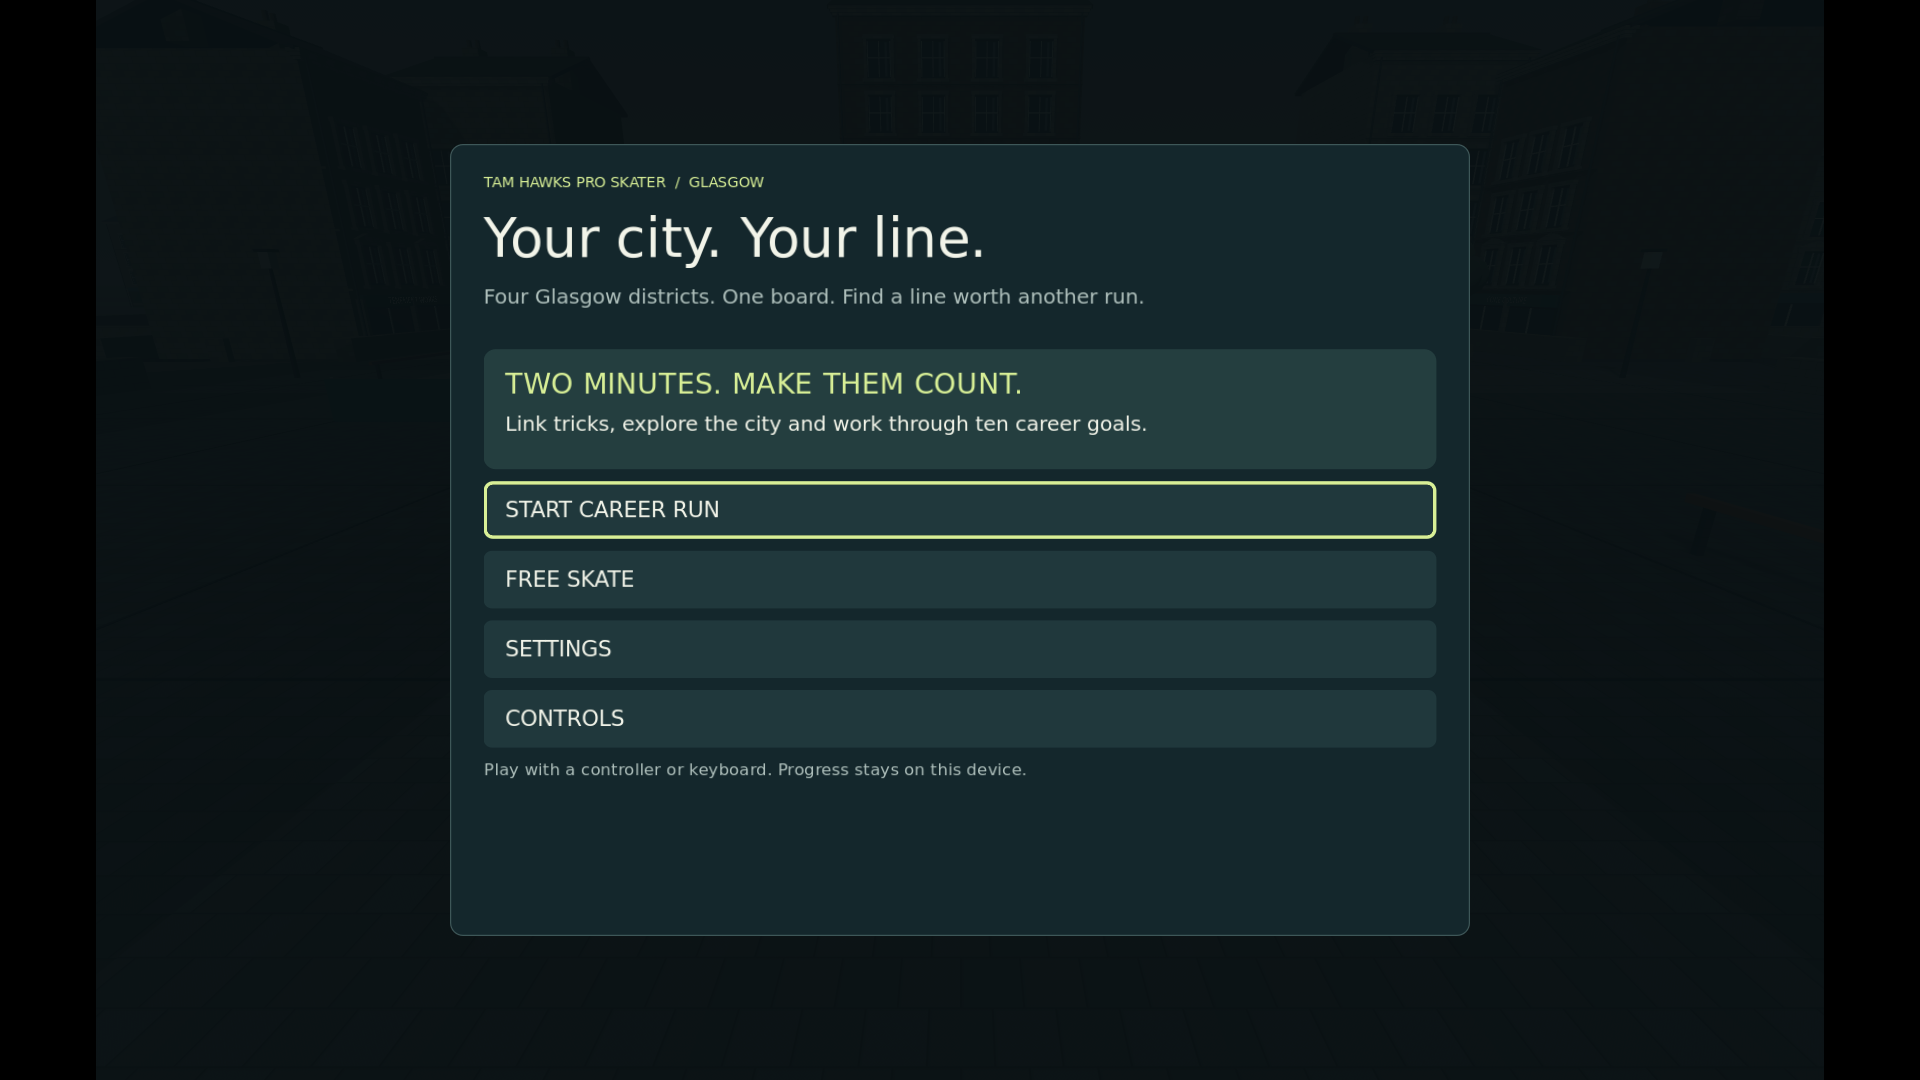
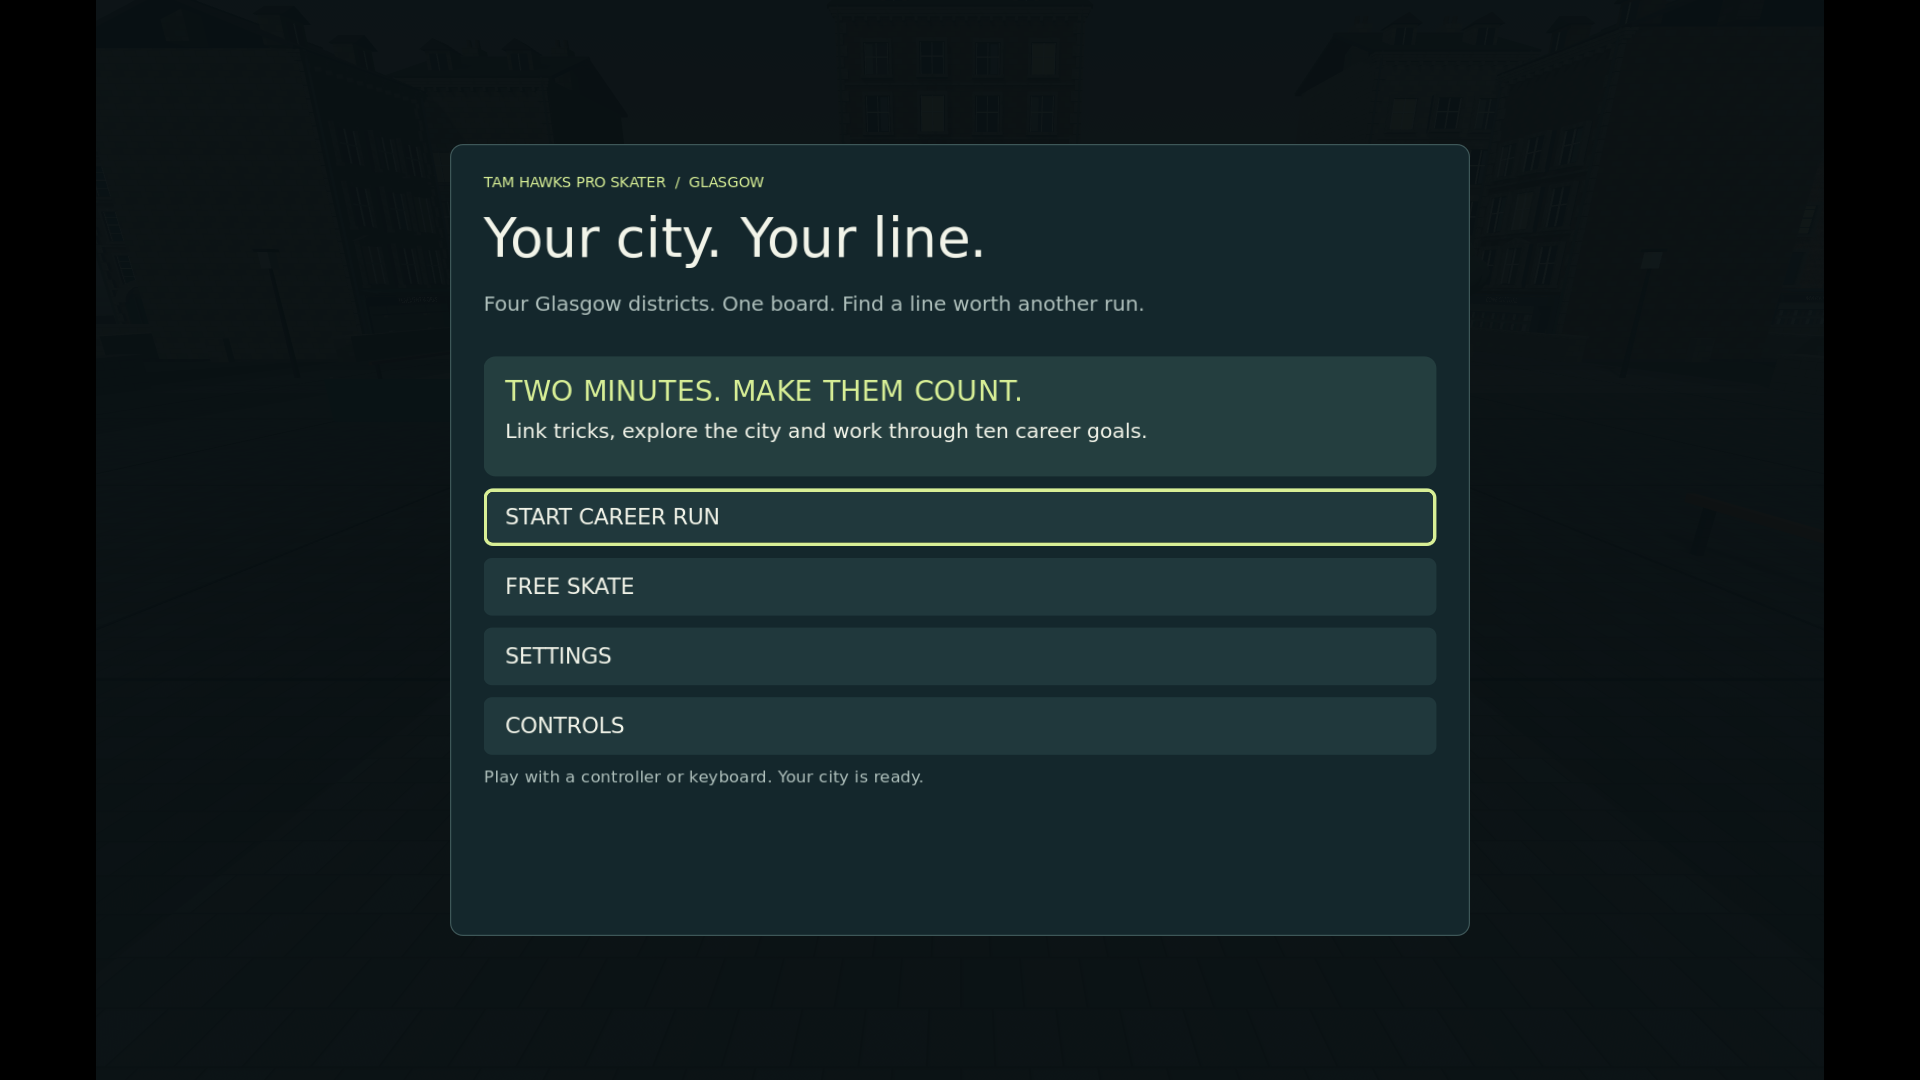
Record cleanup packages, launch checks and resumable handoff

diff --git a/docs/testing/EXPORT.md b/docs/testing/EXPORT.md
@@ -29,11 +29,11 @@ da606b61c10157844f8300172df374472665f95015495cb1a7cd132c40ede404faa96cc1016a4b96
 
 The script verifies the whole archive before extracting selected files and confirms `version.txt`. It checks cached files on reuse, keeps template hashes in `.local/downloads/export-template-verification.json`, and checks Godot's upstream `LICENSE.txt` and `COPYRIGHT.txt` against reviewed SHA-256 pins. A mismatch stops the build; never bypass verification.
 
-Each platform ZIP contains a player guide, `BUILD-METADATA.json`, all reviewed `docs/licences/third-party/*.txt` notices, Godot's MIT licence, Godot's third-party copyright/licence text, and the project's provenance register. This includes the imported rail helper's MIT notice and the Flite CMU, KAL16 voice and Debian notices. `NOTICES/VOICE-PROVENANCE.json` records the three generated voice files and their source hashes. The upstream code licence does not grant a public licence to the game's original content. Do not publish release assets until the separate release review is complete.
+Each platform ZIP contains a player guide, `BUILD-METADATA.json`, all reviewed `docs/licences/third-party/*.txt` notices, Godot's MIT licence, Godot's third-party copyright/licence text, and the project's provenance register. This includes the imported rail helper's MIT notice, the Flite CMU, KAL16 voice and Debian notices, and the ZC texture CC0 licence. `NOTICES/VOICE-PROVENANCE.json` records the three generated voice files and their source hashes; `NOTICES/TEXTURE-PROVENANCE.json` records the pinned source photographs, normal maps, licences and import settings. The upstream licences do not grant a public licence to the game's original content. Do not publish release assets until the separate release review is complete.
 
-For each exported data pack, an isolated Godot invocation loads and instantiates the main scene's script dependencies, then loads all three imported WAV resources and checks their durations. Its empty project directory prevents falling back to checkout files. `PACKAGED-RESOURCES.json` records this inspection and the data-pack digest. Full licence notices are supplied alongside the executable under `NOTICES/`; `docs/.gdignore` deliberately excludes documentation from the runtime pack. The script reopens each completed ZIP to verify the reviewed notices byte-for-byte and confirm that it contains the same inspected pack. These checks establish packaged resources, not audible sound on target hardware.
+For each exported data pack, an isolated Godot invocation loads and instantiates the main scene's script dependencies, then loads all three imported WAV resources and checks their durations. It also loads all four imported brick/concrete textures, requires nonzero dimensions no larger than 1024 and verifies their mipmaps. Its empty project directory prevents falling back to checkout files. `PACKAGED-RESOURCES.json` records this inspection and the data-pack digest. Full licence notices are supplied alongside the executable under `NOTICES/`; `docs/.gdignore` deliberately excludes documentation from the runtime pack. The script reopens each completed ZIP to verify the reviewed notices and provenance files byte-for-byte and confirm that it contains the same inspected pack. These checks establish packaged resources, not audible sound on target hardware.
 
-Outputs live under ignored `builds/tam-hawks-<UTC timestamp>-<Git short SHA>/`. `SHA256SUMS.txt` records distributable ZIP digests. Build metadata records the full Git commit, dirty-worktree status, runtime/package input hashes, engine version, verified template provenance and unsigned/unverified Mac status. A dirty build is identified by its file manifest rather than falsely attributed entirely to the preceding commit.
+Outputs live under ignored `builds/tam-hawks-<UTC timestamp>-<Git short SHA>/`. The script writes `builds/.gdignore` before imports, keeping earlier apps, logs and screenshots out of the resource scan. `SHA256SUMS.txt` records distributable ZIP digests. Build metadata records the full Git commit, dirty-worktree status, runtime/package input hashes including `.import` configurations, engine version, verified template provenance and unsigned/unverified Mac status. Before export, the texture source, import configuration and licence hashes must match the reviewed manifest. A dirty build is identified by its file manifest rather than falsely attributed entirely to the preceding commit.
 
 ## Required validation
 
@@ -51,7 +51,7 @@ On 17 October 2026, `./tools/export.sh --prepare` completed successfully with th
 
 The first native export attempt from `fbdc6ad398410b588130275ef09aea47a1022a97` was rejected by packaging validation. Selecting only the main scene and WAV resources omitted GDScript preload dependencies; a normal Linux launch reproduced missing-script errors. In addition, `docs/.gdignore` correctly prevented the attempted runtime inclusion of documentation notices. The correction exports all game resources while excluding tests/tools, checks the packed main scene/scripts, and supplies the complete notices alongside the executable in each ZIP. No ZIP from that failed attempt was produced; its ignored diagnostic directory is `builds/tam-hawks-20261017T130216Z-fbdc6ad39841/`.
 
-### Verified native checkpoint, 17 October 2026
+### Earlier native checkpoint — 13e76ac, 17 October 2026
 
[1 lines of base64/hex data omitted]
 
@@ -74,6 +74,35 @@ TamHawksProSkater.x86_64 --headless --audio-driver Dummy --quit-after 120
 TamHawksProSkater.x86_64 --audio-driver Dummy --resolution 1920x1080 --position 0,0 --quit-after 180
 ```
 
[2 lines of base64/hex data omitted]
 
 This is a normal Linux startup/resource/visual smoke using software rendering and the Dummy audio driver. Audible output, physical controllers, real Mac launch/Gatekeeper behavior and target-hardware performance remain unverified. The macOS archive is unsigned and unnotarized. No artifacts were published and no paid service was used.
+
+### Current native checkpoint — a99f993, 17 October 2026
+
[1 lines of base64/hex data omitted]
+
+Current local artifacts: `builds/tam-hawks-20261017T141540Z-a99f9933091d/`.
+
+| Archive | Bytes | SHA-256 |
+| --- | ---: | --- |
[2 lines of base64/hex data omitted]
+
+Both archives passed an independent CRC check. Linux is ELF x86_64; macOS is Mach-O with x86_64 and arm64 slices; executable permissions are retained. All ten `NOTICES/` files are present. The five reviewed third-party licences, two Godot notices and three project/voice/texture provenance files byte-match their source files. `ARCHIVE-AUDIT.json` records this audit. No runtime or fingerprinted packaging input changed during export.
+
[1 lines of base64/hex data omitted]
+
+Normal Linux startup used the actual exported executable with isolated XDG profile/config/cache directories, without replacing the main script. These final bounded commands both exited **0**:
+
+```bash
+TamHawksProSkater.x86_64 --headless --audio-driver Dummy --quit-after 120
+# Temporary Xorg display; LIBGL_ALWAYS_SOFTWARE=1:
+TamHawksProSkater.x86_64 --audio-driver Dummy --resolution 1920x1080 --position 0,0 --quit-after 30
+```
+
[1 lines of base64/hex data omitted]
+
+Smoke-harness diagnostics are retained transparently: the initial 180-frame graphical attempt rendered the reviewed title but reached its 90-second timeout (exit 124). A shorter attempt required the final window title too early while the window was still named `Godot`, despite its correct application class; a later screenshot raced the short-lived window. Those diagnostics are in `standalone-smoke-second-windowmatch/` and `standalone-smoke-third-capture-race/`. The final harness separates the retained visual evidence from the 30-frame natural-exit check. These harness corrections changed no runtime or package files. No target-performance conclusion is drawn from software rendering or the timeout.
+
+This checkpoint's Mac app remains **unsigned, unnotarized and not launch-tested on a real Mac**. Actual Apple Silicon frame times, physical DualSense behavior, audible playback and final owner visual acceptance remain open. No build was published, and no paid service was used.

diff --git a/docs/planning/BACKLOG.md b/docs/planning/BACKLOG.md
@@ -488,7 +488,7 @@ No physical DualSense, target-Mac launch/performance, human listening, subjectiv
 - **Dependencies:** M00-002, M04-004, M06-002
 - **Acceptance criteria:** Use matching official export templates; produce a self-contained Apple Silicon-capable app; launch it on a target Mac, play offline and persist saves; document unsigned first-run behaviour without purchasing enrollment.
 - **Test strategy / evidence:** Inspect architecture/package resources; perform fresh-copy launch, controller session, quit/relaunch and save-path tests on macOS. Block when hardware/templates are unavailable; never claim a tested export from settings alone.
-- **Current implementation / remaining:** Unsigned macOS universal and Linux presets plus tools/export.sh are prepared; official Godot 4.6.3 templates and required notices were downloaded/verified into ignored local storage. The earlier alpha export at `13e76ac` passed isolated scene/audio, architecture and notice checks. The current cleanup also audits texture resources/mipmaps and complete source/import/licence provenance; latest regenerated package identities belong in EXPORT. Real Mac first launch, controller/audio/save round trip remain unverified. See docs/testing/EXPORT.md.
+- **Current implementation / remaining:** Unsigned macOS universal and Linux presets plus tools/export.sh are prepared; official Godot 4.6.3 templates and required notices were downloaded/verified into ignored local storage. Clean runtime `a99f993` produces both standalone ZIPs with isolated scene/voice/texture checks, mipmaps, source/import/licence provenance, CRC and architecture audits. Normal Linux headless and 1920×1080 startup both exit 0; exact package identities and harness diagnostics are in EXPORT. Real Mac first launch, controller/audio/save round trip remain unverified. See docs/testing/EXPORT.md.
 
 ### M06-006 — Complete target-hardware acceptance and tuning
 
@@ -538,7 +538,7 @@ No physical DualSense, target-Mac launch/performance, human listening, subjectiv
 - **Dependencies:** M07-001, M07-002, M06-005
 - **Acceptance criteria:** Reproducible local export produces a versioned app/archive with checksum and required notices; fresh-copy macOS launch, offline play, controller and save persistence pass; any unsigned limitations are described accurately.
 - **Test strategy / evidence:** Export from recorded commit/engine/templates, verify artifact checksum, test fresh extraction and launch on target Mac. Do not buy signing enrollment or upload to paid distribution.
-- **Current implementation / remaining:** Reproducible local unsigned export tooling, verified official templates and package/architecture/checksum checks are prepared. Unsigned Linux/macOS alpha artifacts previously passed resource/notice/architecture checks; the cleanup artifacts and their source identity/digests are recorded in EXPORT.md. Linux headless and rendered normal startup passed with exit 0; Mac launch remains unverified. Paid signing, hosting and release publication remain outside this preparation.
+- **Current implementation / remaining:** Reproducible local unsigned export tooling, verified official templates and package/architecture/checksum checks are prepared. Unsigned Linux/macOS cleanup artifacts from `a99f993` pass resource, notice/provenance, CRC and architecture checks; their source identity/digests are recorded in EXPORT.md. Linux headless and rendered normal startup passed with exit 0; Mac launch remains unverified. Paid signing, hosting and release publication remain outside this preparation.
 
 ### M07-004 — Write player instructions, release notes and support handoff
 

diff --git a/docs/planning/ACTIVE_WORK.md b/docs/planning/ACTIVE_WORK.md
@@ -4,7 +4,7 @@ The owner authorizes ready work without recurring routine approvals, under the n
 
 Completed source work: varied facade modules/smooth arches/sign repairs; two verified CC0 material sets with source/import/licence hashes; continuous native skinned clothing and refined board/action poses; corrected foot-basis drift, tumble pivot, garment gaps and manual wheel contact; separate event/combo cues, live remapped prompts, persistent save warnings and nested focus/scroll navigation; actual floor-material sound selection; ten-goal physical circuit and six district combo directions; bounded real-rendered profiling and stronger export texture/provenance checks.
 
-All production specialists have released their files. No production edits are pending. Native packages are now being rebuilt from the clean tested source checkpoint; do not confuse the earlier 13e76ac ZIPs with this cleanup. Final package identities/launch results must be added to EXPORT/STATUS before handoff. Rendered source imagery and compact profiler JSON/CSV are durable in docs; the motion MP4, caches/templates/builds remain ignored and are reproducible with the retained tools.
+All production specialists have released their files. Source/runtime commit: `a99f9933091d8931853ef375a2c029cccb6875f2`, pushed to the feature branch. Both native packages are regenerated from that clean commit and pass scene/voice/texture, CRC, architecture and provenance checks. Normal Linux headless and 1920×1080 graphical startup both exit 0; Mac launch remains untested. Exact package identities and diagnostic limits are in EXPORT/STATUS. Later handoff commits affect documentation/evidence only. No production edits are pending. Rendered imagery and compact profiler JSON/CSV are durable in docs; motion MP4, caches/templates/builds remain ignored and are reproducible with retained tools.
 
 Resume from git status/log and STATUS. There are 54 full tickets in BACKLOG. Open work is concrete: generated stone/paving and repeated scenery; rider face/hands/grind/bail/transition polish and static NPCs; current verified Glasgow frontages when access changes; human route/balance/listening review; real Mac/DualSense/offline save tests; ten-minute 1080p Apple Silicon performance; final M06-007 visual acceptance and release audit. The automated route's direct ground aiming is explicitly not human timing evidence. Linux software rendering cannot close hardware gates.
 

diff --git a/docs/STATUS.md b/docs/STATUS.md
@@ -40,7 +40,14 @@ Routes: real production physics completes all ten goals in one circuit, 19,700 p
 
 Fifteen standard 1280×800 gameplay/menu/district captures and dedicated matched world/UI/rider evidence are retained under `docs/testing/screenshots/`. Normal startup and modal readiness are checked separately from successful file writes. Linux Compatibility/llvmpipe rendering demonstrates the captured content; it cannot certify Mac performance, real-controller comfort, human listening or final art.
 
-The cleanup source is validated; native ZIPs are being regenerated from the clean source commit. The earlier 13e76ac packages are the previous alpha, not this cleanup. Final package identities and smoke results will be recorded in EXPORT before handoff.
[1 lines of base64/hex data omitted]
+
+| Download | Bytes | SHA-256 |
+|---|---:|---|
[2 lines of base64/hex data omitted]
+
+The exported Linux game passed normal headless startup (120 frames) and rendered 1920×1080 startup (30 frames), both exit 0 with clean engine/script/resource logs. The title is captured and reviewed. EXPORT preserves the earlier long software-render timeout and capture-harness diagnostics; neither is a target-performance pass. Mac launch remains untested. `/workspace/TamHawks-motion-preview.mp4` is the 7.4-second fixed-timestep animation preview, with explicit cuts/fixtures and no performance claim. `/workspace/tam-hawks-prototype-source.zip` contains the final committed source/docs; `/workspace/TamHawks-downloads-SHA256SUMS.txt` records convenience-file hashes. Ignored artifacts must be regenerated after environment replacement.
 
 ## Concrete remaining work
 

diff --git a/docs/testing/QE-REPORT.md b/docs/testing/QE-REPORT.md
@@ -1,6 +1,6 @@
 # Integrated QE report — 17 October 2026
 
-Scope: the playable alpha's skating/combo loop, four-district world, career/persistence, audio, input and UI. Godot `4.6.3.stable.official.7d41c59c4`, Linux cloud machine. `./tools/check.sh`: **778 passed, 0 failed**, exit 0, clean import and engine/script logs after the final visual contact fix.; this report does not certify real Mac/controller behavior, fun, listening quality or final artwork.
+Scope: the playable alpha's skating/combo loop, four-district world, career/persistence, audio, input and UI. Godot `4.6.3.stable.official.7d41c59c4`, Linux cloud machine. `./tools/check.sh`: **778 passed, 0 failed**, exit 0, clean import and engine/script logs after the final visual contact fix. This report does not certify real Mac/controller behavior, fun, listening quality or final artwork.
 
 ## Reproduce and evidence
 
